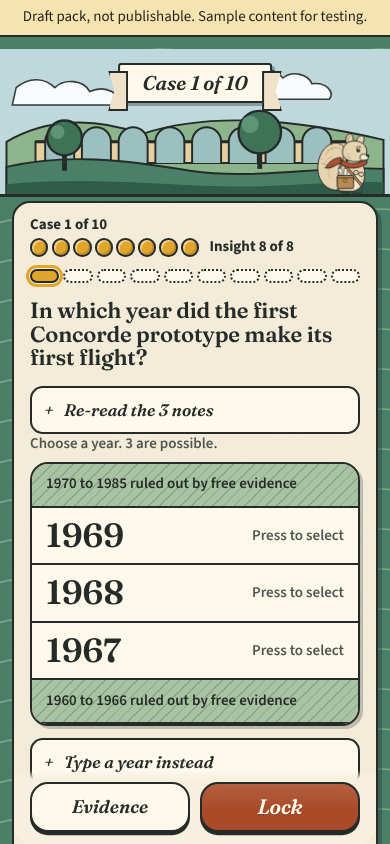
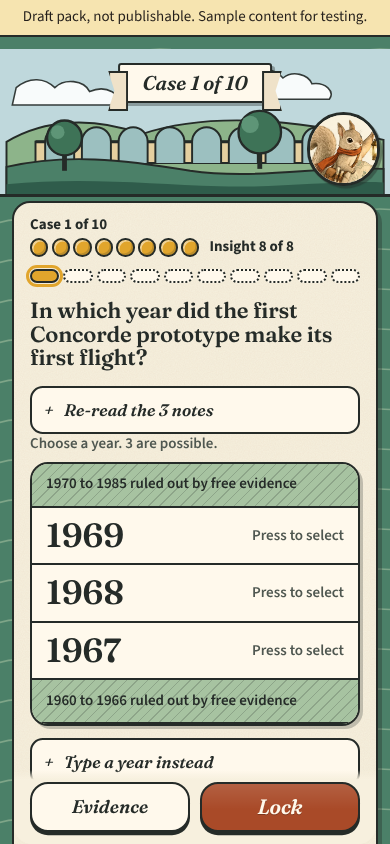
Use the supplied illustrated squirrel as the style lock; asset prompt pack and rights record
Claude-Session: https://claude.ai/code/session_01FMdfxLbxSyrVaXBuTRDsdK

Changed region(s): [[0.7692, 0.1232, 0.9846, 0.2464]]

diff --git a/app/src/ui/app.js b/app/src/ui/app.js
@@ -93,7 +93,8 @@ function strip(v) {
   const summary = t('stripSummary', { solved: n('solved_clean') + n('solved_assisted'), missed: n('missed'), todo: v.cases.length - n('solved_clean') - n('solved_assisted') - n('missed'), now: v.cursor + 1 });
   return `<div role="img" aria-label="${summary}"><ol class="strip" aria-hidden="true">${v.cases.map((c, i) => `<li ${i === v.cursor && v.status === 'active' ? 'class="now"' : ''}><span class="seg ${stKey(c.status)}"></span></li>`).join('')}</ol></div>`;
 }
-const guide = (pose, cls = '', flip = false) => `<div class="guide ${cls}" aria-hidden="true">${squirrel({ pose, flip })}</div>`;
+// The guide is the user's illustrated squirrel (assets/characters). One pose for now; art.js squirrel() remains as the fallback for other poses until more are supplied.
+const guide = (pose, cls = '', flip = false) => `<div class="guide ${cls}" aria-hidden="true"><img src="assets/characters/guide-lantern-map.webp" width="720" height="900" alt="" decoding="async"></div>`;
 const wordmark = () => `<p class="wordmark"><span class="hg" aria-hidden="true">${hourglass()}</span><span class="wm">${t('appName')}</span><span class="tag">${t('tagline')}</span></p>`;
 const banner = (label, pose = 'idle') => `<div class="banner" aria-hidden="true">${landscape()}<span class="ribbon">${label}</span>${guide(pose)}</div>`;
 const bar = (html, two = false) => `<div class="bar ${two ? 'two' : ''}">${html}</div>`;
@@ -129,7 +130,7 @@ function renderOnboarding() {
   const n = ui.onbStep, k = ['onb1', 'onb2', 'onb3'][n - 1];
   noNav();
   const nextBtns = bar(`${n < 3 ? btn('onb-next', t('next'), 'primary') : btn('onb-done', t('done'), 'primary')}${n < 3 ? btn('onb-done', t('skip')) : ''}`);
-  if (n === 1) return `${wordmark()}<div class="welcome">${hero()}${guide('map', 'big-guide')}</div>
+  if (n === 1) return `${wordmark()}<div class="welcome poster">${guide('lantern', 'poster-guide')}</div>
     <p class="note" style="text-align:center">${t('stepOf', { n })}</p><h1 id="h" tabindex="-1" style="text-align:center">${t(k + 't')}</h1><div class="bubble">${t(k)}</div><div class="spacer"></div>${nextBtns}`;
   const picture = n === 2 ? `<span class="pegs">${Array.from({ length: 8 }, () => '<span class="peg"></span>').join('')}</span>${guide('think')}` : `${guide('lantern')}${pin()}`;
   return `<div class="paper" style="margin-top:1rem"><p class="note" style="margin-top:.5rem">${t('stepOf', { n })}</p><h1 id="h" tabindex="-1">${t(k + 't')}</h1>
@@ -144,7 +145,7 @@ function renderTrail() {
   const started = v.cases.some(x => x.status !== 'not_started' && x.status !== 'active') || (c && c.spent > 0);
   const label = done ? t('seeDay') : started || v.cursor > 0 ? t('resumeCase', { n: v.cursor + 1 }) : t('startCase', { n: 1 });
   const rows = v.cases.map((x, i) => `<li class="${i === v.cursor && !done ? 'cur' : ''}">${pin(i === v.cursor && !done ? '#E1A52C' : '#A94A28')}<span class="card"><span><span class="mk ${stKey(x.status)}" aria-hidden="true"></span>${t('caseOf', { n: i + 1 }).replace(' of 10', '')}</span><span class="note">${stWord(x.status)}</span></span></li>`).join('');
-  return `${wordmark()}<div class="homehero">${hero()}${guide('map', 'big-guide')}</div>${hud(v, t('trailTitle'))}${strip(v)}
+  return `${wordmark()}<div class="homehero poster">${guide('lantern', 'poster-guide')}</div>${hud(v, t('trailTitle'))}${strip(v)}
   <h1 id="h" tabindex="-1" class="sr">${t('trailTitle')}</h1><p>${t('trailLead')}</p>
   <ol class="path">${rows}</ol>
   <p class="note" style="margin-top:.75rem">${t('conv')}</p>

diff --git a/app/atlas.css b/app/atlas.css
@@ -150,3 +150,18 @@ dialog{border:.1875rem solid var(--ink);border-radius:var(--r) var(--r) 0 0;back
 
 .big,.layer .y,.tl .y{font-variant-numeric:tabular-nums lining-nums}
 .wordmark .tag{max-width:100%}
+
+/* illustrated guide (raster). The art has a paper-cream background, so it is multiplied onto paper surfaces instead of cut out. */
+.guide img{display:block;width:100%;height:auto;mix-blend-mode:multiply}
+.guide.big-guide{width:8.5rem;left:-.4rem;bottom:-.2rem}
+.homehero .guide.big-guide{width:8rem}
+.welcome .guide.big-guide{width:9.5rem}
+.banner .guide{right:.6rem;bottom:.5rem;width:4.6rem;height:4.6rem;border-radius:50%;overflow:hidden;border:.1875rem solid var(--ink);background:#F9F0DF;box-shadow:.15rem .15rem 0 rgba(37,43,40,.35)}
+.banner .guide img{width:150%;margin:-8% 0 0 -22%;mix-blend-mode:normal}
+.result .guide{width:6rem;margin:.1rem -.4rem -1.2rem auto}
+.howstep .picture .guide{width:9rem}
+
+/* poster: the illustrated guide on paper, until illustrated scenery is supplied (the vector hero was retired because the styles clash) */
+.poster{display:flex;justify-content:center;margin:.25rem 0 0}
+.poster .guide{position:static;width:min(15rem,62vw);margin:0}
+.homehero.poster .guide{width:min(11.5rem,48vw)}

diff --git a/docs/atlas/ASSET_PROMPTS.md b/docs/atlas/ASSET_PROMPTS.md
@@ -1,0 +1,50 @@
+# Art asset pack: what to supply and how to prompt for it
+
+The squirrel you supplied (`app/assets/characters/guide-master.webp`) is the **style lock**. It is a fine-ink and watercolour natural-history illustration: warm paper, pencil stipple, brass, rust, moss. Every other asset must look like it was drawn by the same hand. Attach it as a reference image to every prompt below.
+
+**Style lock sentence (paste into every prompt):**
+> Match the attached squirrel illustration exactly in style: fine dark-brown ink linework with varied line weight, pencil stippling and hatching, soft watercolour washes, warm cream paper, palette of cream, moss and sage green, teal, brass gold and burnt rust. Vintage atlas and natural-history print feel. No 3D, no gloss, no neon, no text, no border, no watermark.
+
+**Background rule:** plain flat paper colour `#F9F0DF` (the squirrel's own background), so the art can sit on the app's paper surfaces by multiply blending. If your tool can export transparent PNG cutouts, supply those too. Full-bleed scenes need no special background.
+
+**Delivery:** drop files in `app/assets/<folder>/` with the names below, at least the stated width, PNG or WebP. Tell me when they are in and I wire them up. Keep a note of the tool, date and prompt for each file (rights record, see below).
+
+## 1. Character poses (same squirrel, same scarf, satchel, tail, eye) — `app/assets/characters/`
+Size: 1080 x 1350. Use the master as reference and say "same character, new pose".
+| File | Prompt (after the style lock) |
+|---|---|
+| `guide-idle.webp` | Same squirrel, sitting calmly on the mossy rock in profile, looking to the right toward something in the distance, paws resting on the satchel, lantern unlit hanging from the satchel strap. |
+| `guide-earlier.webp` | Same squirrel standing, one paw pointing left, head turned left, thoughtful, map tucked under the other arm. |
+| `guide-later.webp` | Mirror of the above: pointing right, head turned right. |
+| `guide-clue.webp` | Same squirrel pulling a small paper fragment from the satchel, looking at it with interest. |
+| `guide-discovery.webp` | Same squirrel holding the brass lantern high, warm gold glow, delighted but calm expression. |
+| `guide-uncertain.webp` | Same squirrel holding two small notes side by side, head tilted, curious and unsure. |
+| `guide-rest.webp` | Same squirrel curled up sleeping on the rock with the tail around it, scarf loose, map folded beside it. |
+| `guide-back.webp` | Same squirrel seen from behind, looking out over a valley, satchel and scarf visible. |
+
+## 2. Scenes — `app/assets/scenes/` (portrait, 1170 x 1600 unless noted)
+| File | Prompt (after the style lock) |
+|---|---|
+| `home-hero.webp` | A tall arched night-sky window in an ink-and-watercolour landscape: deep blue sky with gold stars and moon phases, a large brass armillary sphere with a ringed orbit standing on a stepped stone path that recedes toward it, flags on poles, rolling hills with a distant hilltop town and a Roman aqueduct, leafy trees and white flowers framing both sides. Leave the lower third calm for a button. No text. |
+| `banner-aqueduct.webp` (2340 x 900) | Wide pastoral landscape: sky with soft clouds, a long stone aqueduct across green valley hills, round trees, a winding river. Calm, low detail near the top and bottom edges so a ribbon label can sit over it. |
+| `banner-city.webp` (2340 x 900) | Wide hilltop town with terracotta roofs, a domed church, cypress trees and a stone bridge over a river. |
+| `banner-coast.webp` (2340 x 900) | Wide harbour coast with old sailing ships, cliffs and a lighthouse. |
+| `banner-desert.webp` (2340 x 900) | Wide dry landscape with a river, palms, and distant stone monuments. Avoid any real monument that is not tied to the case. |
+| `banner-mountain.webp` (2340 x 900) | Wide mountain valley with a mule path and a small bridge. |
+| `reveal-cloud-edge.webp` (2340 x 600) | A soft painted cloud bank edge, cream on transparent, to blend a scene into paper. |
+
+## 3. Textures — `app/assets/textures/` (tileable, 1024 x 1024)
+| File | Prompt |
+|---|---|
+| `paper-grain.webp` | Seamless tileable cream handmade paper, fine fibres, very subtle, almost flat, no stains. |
+| `map-green.webp` | Seamless tileable muted atlas-green paper with faint sage contour lines and gentle watercolour variation, low contrast so text on cream cards stays readable. |
+| `stipple.webp` | Seamless tileable fine pencil stipple on transparent, low density. |
+
+## 4. Reveal vignettes (later, **research-backed only**) — `app/assets/reveal/<case>/`
+Each vignette depicts a *real* sourced thing for one case (for example the Rosetta Stone, a smallpox ward poster, a Manila galleon). They must not be invented from prompts alone. Per vignette I need: the source link, what the picture shows, what is symbolic. Do not supply any until the case's sources are agreed; I will give a per-case brief.
+
+## Rights record (required)
+For every asset keep: file name, tool and model, date, the exact prompt, the reference images used, who owns the output under the tool's terms, and whether commercial use is allowed. **Check the terms before shipping.** Output from image generators may have unclear ownership, may not be copyrightable in some places, and can resemble existing artists' work. I will add a `docs/atlas/ASSET_RIGHTS.md` table and block a release if a row is empty. The master squirrel's row is empty today.
+
+## Consistency tips
+Generate each pose several times and keep the best; check ears, eye, scarf colour and satchel buckles against the master. If a pose drifts, regenerate with the master attached and "same character, do not change the face, scarf or satchel". An illustrator can later redraw anything that cannot be matched.

diff --git a/docs/DECISIONS.md b/docs/DECISIONS.md
@@ -247,3 +247,5 @@ Status values: **FIXED** (user decision), **PROVISIONAL** (user-named but must b
 | D-079 | 2026-11-24 | Illustrations are code-drawn SVG stand-ins; production art is to be commissioned or produced under the guide's asset list. | PROPOSED | `art.js` | Raster art now | Art budget decision |
 | D-080 | 2026-11-24 | Fonts are self-hosted (OFL) instead of loaded from Google. | PROPOSED | `app/fonts/` | Google Fonts | n/a |
 | D-081 | 2026-11-24 | Stage 10 approved. Stage 11 authorised. User direction: real illustrated assets before further UI work; apply the Atlas look to Motion and Reveal; richer backgrounds, textures and photography-like depth; the code-drawn squirrel is rejected as too weak. | **FIXED** | User message | n/a | n/a |
+| D-082 | 2026-11-24 | The user's illustrated squirrel (`app/assets/characters/`) is the style lock for all art. It is multiplied onto paper surfaces (its background is paper cream). The code-drawn vector hero is retired from the welcome and home screens because the styles clash; other scenery and poses wait for supplied art (`ASSET_PROMPTS.md`). | PROPOSED | User message with image | Keep vector scenery | n/a |
+| D-083 | 2026-11-24 | Every art file needs a rights row (`ASSET_RIGHTS.md`); an empty row blocks release. | PROPOSED | `ASSET_RIGHTS.md` | Ad hoc | n/a |

diff --git a/docs/OPEN_QUESTIONS.md b/docs/OPEN_QUESTIONS.md
@@ -128,3 +128,4 @@ Urgency: **H** blocks the next stage, **M** needed within two stages, **L** late
 | Q-67 | Is the code-drawn squirrel and scenery close enough to proceed, or should real illustrated assets be commissioned or generated first? | H | User | 11 |
 | Q-68 | Apply the Atlas look to the Motion and World Reveal prototypes next? | M | User | 11 |
 | Q-69 | Georgian font choice for the new type system. | M | User | 12 |
+| Q-70 | Who owns the squirrel and under what licence (tool, terms, commercial use)? Same for every later asset. | H | User | Before any release |

diff --git a/docs/atlas/ASSET_RIGHTS.md b/docs/atlas/ASSET_RIGHTS.md
@@ -1,0 +1,5 @@
+# Asset rights record
+
+| File | Source | Tool and model | Date | Prompt and references | Owner and licence | Commercial use confirmed | Status |
+|---|---|---|---|---|---|---|---|
+| `app/assets/characters/guide-master.webp` and `guide-lantern-map.webp` | Supplied by the user | Not stated (the user supplied the file; a first version was also generated with a Canva image generator on 2026-11-24) | 2026-11-24 | Not recorded | **Unknown** | **No** | **BLOCKS RELEASE until filled in** |
